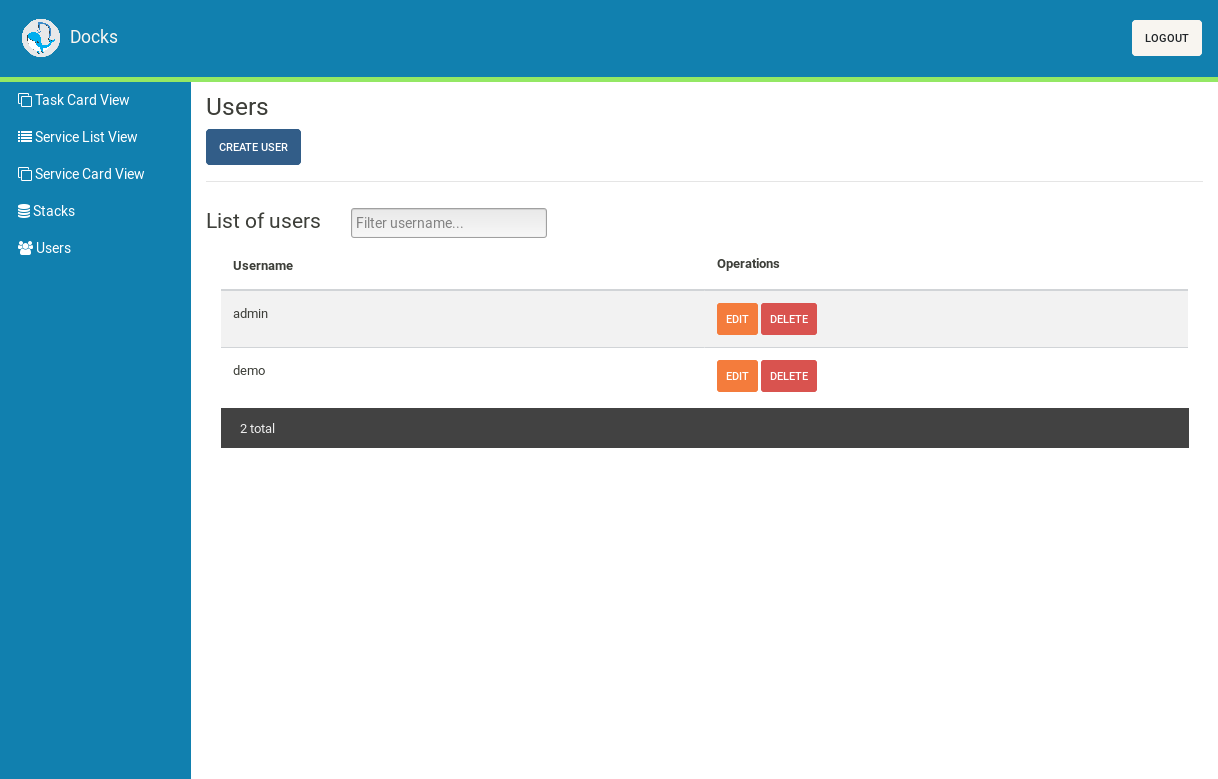
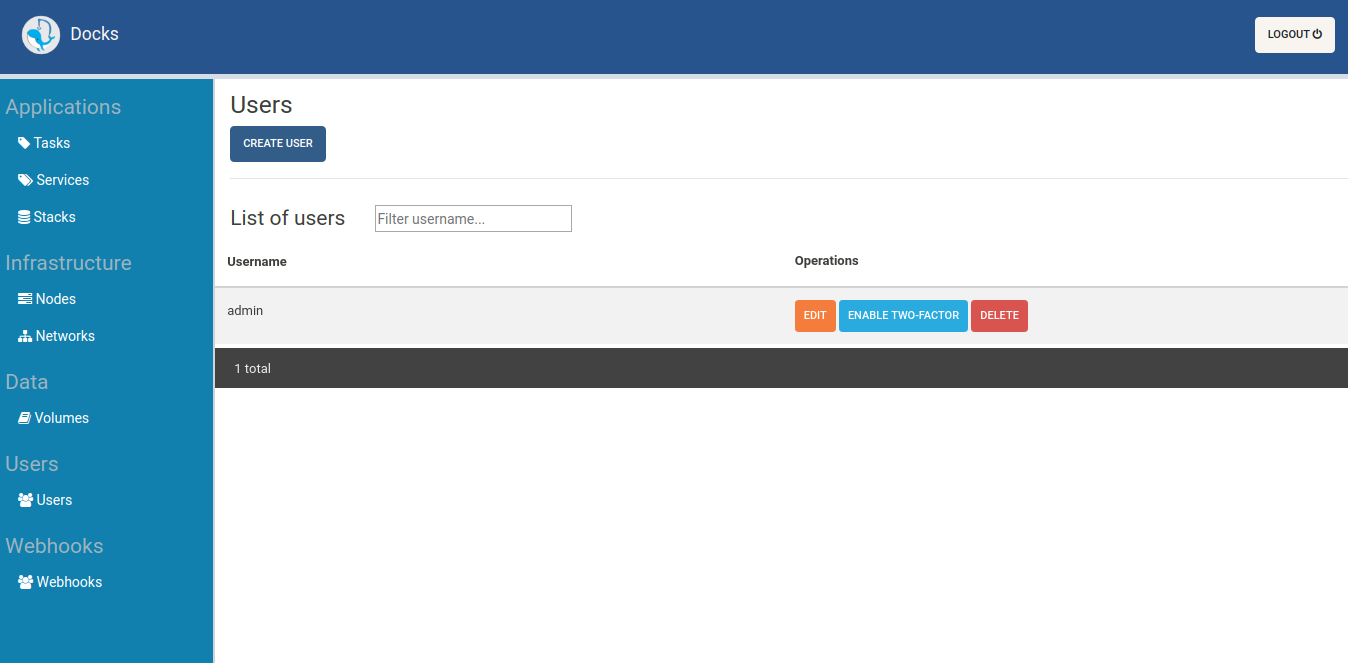
update user manual

diff --git a/docs/published/user-manual.tex b/docs/published/user-manual.tex
@@ -193,56 +193,90 @@ This will be explained further in \nameref{sec:user_management}
 
 
 \subsection{Tasks}
-A Service consists of Tasks. Tasks can only be viewed - they are managed by Docker
-as part of services
+A service consists of Tasks. Tasks can only be viewed - they are managed by Docker
+as part of services.
 
 \subsubsection{Viewing Tasks}
-The card view displays the following information:
+The table displays the following information:
 \begin{itemize}
 	\tightlist
-	\item ID of the task
-	\item State of the task. 
-	Indicated by the circle and card outline colour. 
+	\item Name of the task
+	\item Image that the task is running
+	\item State of the task.
 	Green means the task is running, 
 	red indicating it has stopped and blue indicating it is preparing
-	\item Node ID the task is running on
-	\item Last Updated
+	\item Node ID on which the task is running
 \end{itemize}
 
 \begin{figure}[H]
 	\centering
-	\includegraphics[scale=0.4]{task_card_view.png}
-	\caption{Task Card View}
+	\includegraphics[scale=0.4]{tasks.png}
+	\caption{Task View}
 \end{figure}
 
-\subsubsection{View Task Logs}
-From the task card view, a task can be clicked to bring up a modal for viewing
-the log associated with the task.
+\subsubsection{Viewing Task Details}
+From the task view, a task can be clicked to open up an new page
+on which details of that specific task is displayed.
 
 \begin{figure}[H]
 	\centering
-	\includegraphics[scale=0.4]{task_card_modal.png}
-	\caption{Task Card Modal}
+	\includegraphics[scale=0.4]{task_details.png}
+	\caption{Task Detail View}
 \end{figure}
 
 \subsection{Services}
-The service list view provides a sortable and searchable table for deployed services.
+A stack consists of services. The service list view provides a sortable 
+and searchable table for deployed services.
+
+\subsubsection{Viewing Services}
+The table displays the following information:
+\begin{itemize}
+	\tightlist
+	\item Name of the service
+	\item Image that the service is running
+	\item Mode of the service
+	\item Replicas of that services running
+	\item Port of which the service is listening
+\end{itemize}
 
 \begin{figure}[H]
 	\centering
-	\includegraphics[scale=0.4]{service_list_view.png}
-	\caption{Service List View}
+	\includegraphics[scale=0.4]{services.png}
+	\caption{Service View}
 \end{figure}
 
+
+\subsubsection{Viewing Service Details}
+From the service view, a service can be clicked to open up an new page
+on which details of that specific service are displayed.
+
 \begin{figure}[H]
 	\centering
-	\includegraphics[scale=0.4]{service_card_view.png}
-	\caption{Service Card View}
+	\includegraphics[scale=0.4]{service_details.png}
+	\caption{Service Detail View}
+\end{figure}
+
+\subsubsection{Viewing Service Logs}
+From the service detail view, the logs page can be opened to view the 
+complete log for that service.
+
+\begin{figure}[H]
+	\centering
+	\includegraphics[scale=0.4]{services_logs.png}
+	\caption{Service Log View}
 \end{figure}
 
 \subsection{Stacks}
 The concept of a Stack is the core feature of Docker.
 A Stack describes Services (applications) and how they should be deployed.
+
+\subsubsection{Viewing Stack}
+The table displays the following information:
+\begin{itemize}
+	\tightlist
+	\item Name of the stack
+	\item Number of services that belongs to the stack 
+\end{itemize}
 
 \begin{figure}[H]
 	\centering
@@ -261,7 +295,7 @@ The Stack should be given a unique name to identify it in the system.
 \begin{figure}[H]
 	\centering
 	\includegraphics[scale=0.4]{stacks_deploy.png}
-	\caption{Deploying a Wordpress Stack}
+	\caption{Deploying a Stack}
 \end{figure}
 
 \subsubsection{Updating a Stack}
@@ -281,25 +315,99 @@ Reasons for updating the stack may include:
 
 \begin{figure}[H]
 	\centering
-	\includegraphics[scale=0.4]{stacks_update.png}
-	\caption{Updating the Docks Web Interface Stack}
+	\includegraphics[scale=0.4]{stacks_edit.png}
+	\caption{Updating a Stack}
+\end{figure}
+
+\subsection{Node Management}
+Docker swarm is a concept that clusters single, separate docker hosts into a single
+virtual docker host. It consists of manager nodes that delegate jobs and load balance between
+worker nodes.
+
+\subsubsection{Viewing Nodes}
+The table displays the following information:
+\begin{itemize}
+	\tightlist
+	\item Name of the nodes
+	\item Engine version of the node
+	\item IP Address of the node
+	\item Availability of the node 
+	Green means the nodes is active, 
+	red indicating it has stopped and blue indicating it is preparing
+	\item Role of the node
+	\item State of the node 
+	Green means the nodes is active, 
+	red indicating it has stopped and blue indicating it is preparing
+	\item Number of CPU's assigned to the node
+	\item Memory assigned to the node
+\end{itemize}
+
+\begin{figure}[H]
+	\centering
+	\includegraphics[scale=0.4]{nodes.png}
+	\caption{Nodes View}
+\end{figure}
+
+\subsection{Network Management}
+Docker networks allow a user to connect containers with services or
+containers and services to non-Docker workloads.
+
+\subsubsection{Viewing Networks}
+The table displays the following information:
+\begin{itemize}
+	\tightlist
+	\item Name of the network
+	\item Driver assigned to the network
+\end{itemize}
+
+\begin{figure}[H]
+	\centering
+	\includegraphics[scale=0.4]{networks.png}
+	\caption{Networks View}
+\end{figure}
+
+
+\subsection{Volume Management}
+Volumes are used with persistent data generated and used by Docker containers.
+
+\subsubsection{Viewing Volumes}
+The table displays the following information:
+\begin{itemize}
+	\tightlist
+	\item Name of the volume
+	\item Driver assigned to volume
+\end{itemize}
+
+\begin{figure}[H]
+	\centering
+	\includegraphics[scale=0.4]{volumes.png}
+	\caption{Volumes View}
+\end{figure}
+
+\subsubsection{Creating Volumes}
+Docks allows the user to create their own volumes. 
+The Volums should be given a unique name and assigned to a driver.
+
+\begin{figure}[H]
+	\centering
+	\includegraphics[scale=0.4]{volumes_create.png}
+	\caption{Deploying a Stack}
 \end{figure}
 
 \subsection{User Management}
 \label{sec:user_management}
+\subsubsection{Viewing Users}
 Only registered users can use Docks. An admin user can create more admin users.
 Currently there exists only admin users, so be sure to trust the person that will
 be using the account.
-
-Users can be created using the Create User Page (Users -> Create):
-
-Passwords can be changed using the Change Password page (Users -> Edit)
-
 \begin{figure}[H]
 	\centering
 	\includegraphics[scale=0.4]{users.png}
 	\caption{Users}
 \end{figure}
+
+\subsubsection{Creating Users}
+Users can be created.
 
 \begin{figure}[H]
 	\centering
@@ -307,8 +415,30 @@ Passwords can be changed using the Change Password page (Users -> Edit)
 	\caption{Users}
 \end{figure}
 
+\subsubsection{Editing Users}
+Passwords can be changed using the Change Password page (Users -> Edit)
 
-\subsection{Updating Docks}
+\begin{figure}[H]
+	\centering
+	\includegraphics[scale=0.4]{users_edit.png}
+	\caption{Users}
+\end{figure}
+
+\subsection{Webhooks Management}
+Webhooks make it easy for our application to communicate 
+flexibly with external services (such as slack). This allows us to 
+generate slack notifications
+
+\subsubsection{Creating Webhooks}
+This pages allows you create webhooks.
+
+\begin{figure}[H]
+	\centering
+	\includegraphics[scale=0.4]{webhooks.png}
+	\caption{Webhooks Creation}
+\end{figure}
+
+\section{Updating Docks}
 Once Docks is deployed, it can be updated as described in \nameref{sec:stacks_update}
 
 Alternatively the respective Stack file can be modified locally as deployed using
